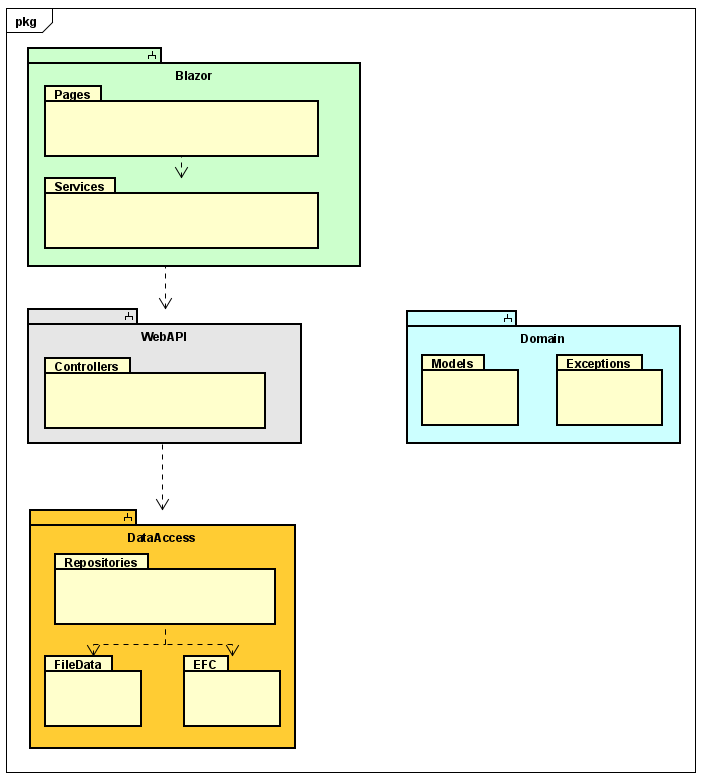
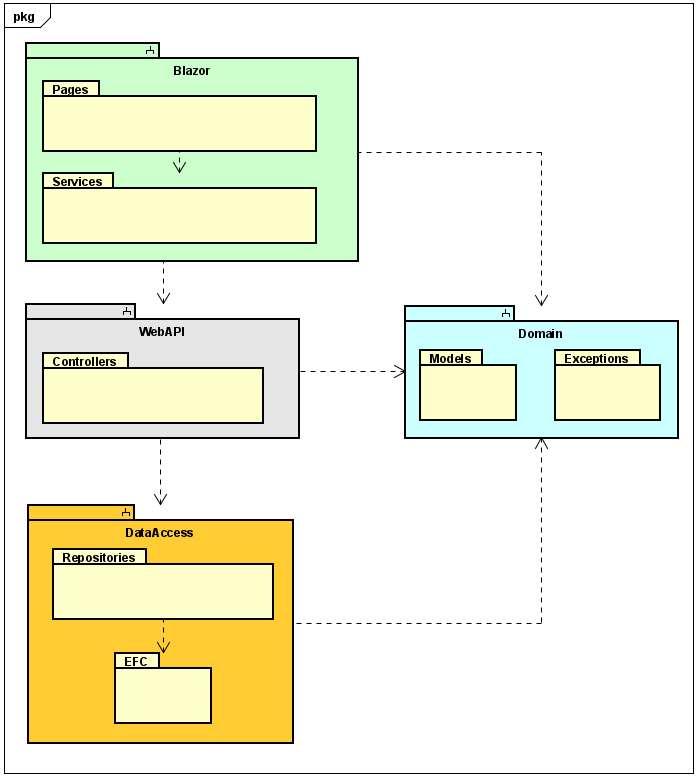
Minor changes

diff --git a/Tutorials/CsharpTodoTutorialPart1/Page.html b/Tutorials/CsharpTodoTutorialPart1/Page.html
@@ -5,7 +5,7 @@
 <link href="./../../Resources/Style.css" rel="stylesheet">
 <link href="./../../Resources/prism.css" rel="stylesheet">
 <script src="./../../Resources/TabNavigavtor.js"></script>
-<link  rel="shortcut icon"  href="./../../Resources/CodeIcon.png">
+<link rel="shortcut icon" href="./../../Resources/CodeIcon.png">
 
 <body>
 <script src="./../../Resources/prism.js"></script>
@@ -13,12 +13,12 @@
 <div>
     <a href="./../../index.html" class="homelink">HOME</a>
 </div>
-<div  style="display:flex;width:100%;height:100%;padding-top:64px">
+<div style="display:flex;width:100%;height:100%;padding-top:64px">
     <div>
         <ol>
             <li class="step" onclick="setTab(0)">1 Introduction</li>
-<li class="step" onclick="setTab(1)">2 New solution</li>
-<li class="step" onclick="setTab(2)">3 Project structure</li>
+            <li class="step" onclick="setTab(1)">2 New solution</li>
+            <li class="step" onclick="setTab(2)">3 Project structure</li>
 
         </ol>
     </div>
@@ -34,58 +34,72 @@
         <!-- One "tab" for each step in the form: -->
 
         <div class="tab">
-<h1>Introduction</h1>
-<p>This tutorial will initially introduce you to Blazor-server. You will create a web app to manage todo items. You can consider it a very simple Trello clone.</p>
-<p>You will create basic features, such as</p>
-<ul>
-<li>creating a Todo</li>
-<li>viewing all</li>
-<li>searching</li>
-<li>modifying</li>
-<li>deleting</li>
-</ul>
-<p>Initially the data will be saved in a file, as json format.</p>
-<p>In later sessions, we will expand upon the tutorial, changing it to a client server system using REST, and lastly adding a real database, using Entity Framework Core (EFC).</p>
-<p>The entire collection of Todo tutorials aim to perfectly prepare you for the exam.</p>
-<p>All source code will be on GitHub, so you always have a reference, if you're stuck.</p>
-<p><img src="TodoIcon.png" alt="Todo list" /></p>
+            <h1>Introduction</h1>
+            <p>This tutorial will initially introduce you to Blazor-server. You will create a web app to manage todo
+                items. You can consider it a very simple Trello clone.</p>
+            <p>You will create basic features, such as</p>
+            <ul>
+                <li>creating a Todo</li>
+                <li>viewing all</li>
+                <li>searching</li>
+                <li>modifying</li>
+                <li>deleting</li>
+            </ul>
+            <p>Initially the data will be saved in a file, as json format.</p>
+            <p>In later sessions, we will expand upon the tutorial, changing it to a client server system using REST,
+                and lastly adding a real database, using Entity Framework Core (EFC).</p>
+            <p>The entire collection of Todo tutorials aim to perfectly prepare you for the exam.</p>
+            <p>All source code will be on GitHub, so you always have a reference, if you're stuck.</p>
+            <p><img src="TodoIcon.png" alt="Todo list" /></p>
 
-</div>
-<div class="tab">
-<h1>Creating a new solution</h1>
-<p>For previous exercises, you have most likely put them all in the same solution, and created a new project for each exercise.</p>
-<p>This tutorial will be a slightly larger exercise, perhaps sort of a mini-SEP. As such, we wish to have a better code-structure for our application. You have been taught the SOLID design principles. They usually apply to single methods, or classes. In this project we will attempt to apply <em>Clean Architecture</em>, which is basically applying the SOLID principles on a larger scale.</p>
-<p>Therefore, we're going to need a new, <strong>empty solution</strong>. You can name it TodoApp.</p>
-<p>Follow the steps below to create a new solution:</p>
-<p><img src="File-New.png" alt="" /></p>
-<p>Clicking <strong>New...</strong> will open the dialog for creating a new solution, see below.</p>
-<ol>
-<li>Select Empty Solution</li>
-<li>Give your solution a name. I have multiple Todo apps by now, so I have called mine <em>BlazorTodoApp</em></li>
-<li>You can choose to add a git repository, if you wish.</li>
-</ol>
-<p><img src="EmptySolution.png" alt="" /></p>
-<p>Your new empty solution should now look like this:</p>
-<p><img src="SolutionCreated.png" alt="" /></p>
-<p>I.e. it's pretty empty.</p>
+        </div>
+        <div class="tab">
+            <h1>Creating a new solution</h1>
+            <p>For previous exercises, you have most likely put them all in the same solution, and created a new project
+                for each exercise.</p>
+            <p>This tutorial will be a slightly larger exercise, perhaps sort of a mini-SEP. As such, we wish to have a
+                better code-structure for our application. You have been taught the SOLID design principles. They
+                usually apply to single methods, or classes. In this project we will attempt to apply <em>Clean
+                    Architecture</em>, which is basically applying the SOLID principles on a larger scale.</p>
+            <p>Therefore, we're going to need a new, <strong>empty solution</strong>. You can name it TodoApp.</p>
+            <p>Follow the steps below to create a new solution:</p>
+            <p><img src="File-New.png" alt=""/></p>
+            <p>Clicking <strong>New...</strong> will open the dialog for creating a new solution, see below.</p>
+            <ol>
+                <li>Select Empty Solution</li>
+                <li>Give your solution a name. I have multiple Todo apps by now, so I have called mine
+                    <em>BlazorTodoApp</em></li>
+                <li>You can choose to add a git repository, if you wish.</li>
+            </ol>
+            <p><img src="EmptySolution.png" alt=""/></p>
+            <p>Your new empty solution should now look like this:</p>
+            <p><img src="SolutionCreated.png" alt=""/></p>
+            <p>I.e. it's pretty empty.</p>
 
-</div>
-<div class="tab">
-<h1>Project structure</h1>
-<p>You have previously heard about layered systems on second semester, a simple example could look like this:</p>
-<p><img src="SimpleArch.png" alt="img.png" /></p>
-<p>This would be a basic structure for a local desktop app. In SEP2 you expanded to a client server system, using JFX. Such a system could be diagrammed like below:</p>
-<p><img src="CSArch.png" alt="img_1.png" /></p>
-<p>The same approach applies: Layers have different responsibilites, and each layer is separated by interfaces. In SEP2 you probably divided layers into different packages.
-The next step is to separate into <em>modules</em>. In Java it's called a module, in .NET it's called a <em>project</em>. This means your .NET app will be structured using an approach like below:</p>
-<p><img src="FinalAppStructure.png" alt="" /></p>
-<p>This is your entire solution. You will have at least 4 projects: Blazor, WebAPI, Domain, DataAccess.<br />
-In this first part we will start with Blazor and DataAccess.</p>
-<p>The point is that these projects (modules) are separated, each handling their own responsibilities. There are different approaches on how to structure these modules. We will do by layer, because that is simpler. However, in your professional career, you will probably encounter a separation by feature. This is the recommended approach, however much more complicated.</p>
-<p>This may seem a bit overwhelming, but we will take it step by step, holding hands along the way. You will be safe.</p>
+        </div>
+        <div class="tab">
+            <h1>Project structure</h1>
+            <p>You have previously heard about layered systems on second semester, a simple example could look like
+                this:</p>
+            <p><img src="SimpleArch.png" alt="img.png"/></p>
+            <p>This would be a basic structure for a local desktop app. In SEP2 you expanded to a client server system,
+                using JFX. Such a system could be diagrammed like below:</p>
+            <p><img src="CSArch.png" alt="img_1.png"/></p>
+            <p>The same approach applies: Layers have different responsibilites, and each layer is separated by
+                interfaces. In SEP2 you probably divided layers into different packages.
+                The next step is to separate into <em>modules</em>. In Java it's called a module, in .NET it's called a
+                <em>project</em>. This means your .NET app will be structured using an approach like below:</p>
+            <p><img src="FinalAppStructure.png" alt=""/></p>
+            <p>This is your entire solution. You will have at least 4 projects: Blazor, WebAPI, Domain, DataAccess.<br/>
+                In this first part we will start with Blazor and DataAccess.</p>
+            <p>The point is that these projects (modules) are separated, each handling their own responsibilities. There
+                are different approaches on how to structure these modules. We will do by layer, because that is
+                simpler. However, in your professional career, you will probably encounter a separation by feature. This
+                is the recommended approach, however much more complicated.</p>
+            <p>This may seem a bit overwhelming, but we will take it step by step, holding hands along the way. You will
+                be safe.</p>
 
-</div>
-
+        </div>
 
 
     </div>

diff --git a/Resources/Style.css b/Resources/Style.css
@@ -88,6 +88,10 @@ button:hover {
 
 }
 
+img{
+    max-width: 800px;
+}
+
 code:not([class]) {
     display: inline-block;
     border-radius: 5px;

diff --git a/Tutorials/CsharpTodoTutorialPart1/3 Project structure.md b/Tutorials/CsharpTodoTutorialPart1/3 Project structure.md
@@ -3,18 +3,20 @@ You have previously heard about layered systems on second semester, a simple exa
 
 ![img.png](SimpleArch.png)
 
-This would be a basic structure for a local desktop app. In SEP2 you expanded to a client server system, using JFX. Such a system could be diagrammed like below:
+The above would be a basic structure for a local desktop app. In SEP2 you expanded to a client/server system, using JFX. Such a system could be diagrammed like below:
 
 ![img_1.png](CSArch.png)
 
 The same approach applies: Layers have different responsibilites, and each layer is separated by interfaces. In SEP2 you probably divided layers into different packages.
-The next step is to separate into *modules*. In Java it's called a module, in .NET it's called a *project*. This means your .NET app will be structured using an approach like below:
+The next step is to separate into *components*. In Java it's called a module, in .NET it's called a *project*. This means your .NET app will be structured using an approach like below:
 
 ![](FinalAppStructure.png)
 
-This is your entire solution. You will have at least 4 projects: Blazor, WebAPI, Domain, DataAccess.  
-In this first part we will start with Blazor and DataAccess.
+This is your entire solution. You will have at least 4 components: Blazor, WebAPI, Domain, DataAccess. Each component may contain multiple layers.  
+In this first part we will start with Blazor and DataAccess. You may notice there is no component for business logic, simply because this app is rather simple. The final structure of your Todo app at the end of the semester may look slightly different. 
 
-The point is that these projects (modules) are separated, each handling their own responsibilities. There are different approaches on how to structure these modules. We will do by layer, because that is simpler. However, in your professional career, you will probably encounter a separation by feature. This is the recommended approach, however much more complicated. 
+In your SEP3 you're going to need a component for logic.  
+
+The point is that these projects (components) are separated, each handling their own responsibilities. There are different approaches on how to structure these components. We will do by layer, because that is simpler. However, in your professional career, you will probably encounter a separation by feature. This is the recommended approach, however much more complicated. 
 
 This may seem a bit overwhelming, but we will take it step by step, holding hands along the way. You will be safe.

diff --git a/Tutorials/CsharpTodoTutorialPart1/2 New solution.md b/Tutorials/CsharpTodoTutorialPart1/2 New solution.md
@@ -20,4 +20,4 @@ Your new empty solution should now look like this:
 
 ![](SolutionCreated.png)
 
-I.e. it's pretty empty.
+I.e. it's pretty empty. Next up, we will talk about the solution structure.

diff --git a/Tutorials/CsharpTodoTutorialPart1/4 Creating domain component.md b/Tutorials/CsharpTodoTutorialPart1/4 Creating domain component.md
@@ -1,0 +1,1 @@
+# The Domain component
